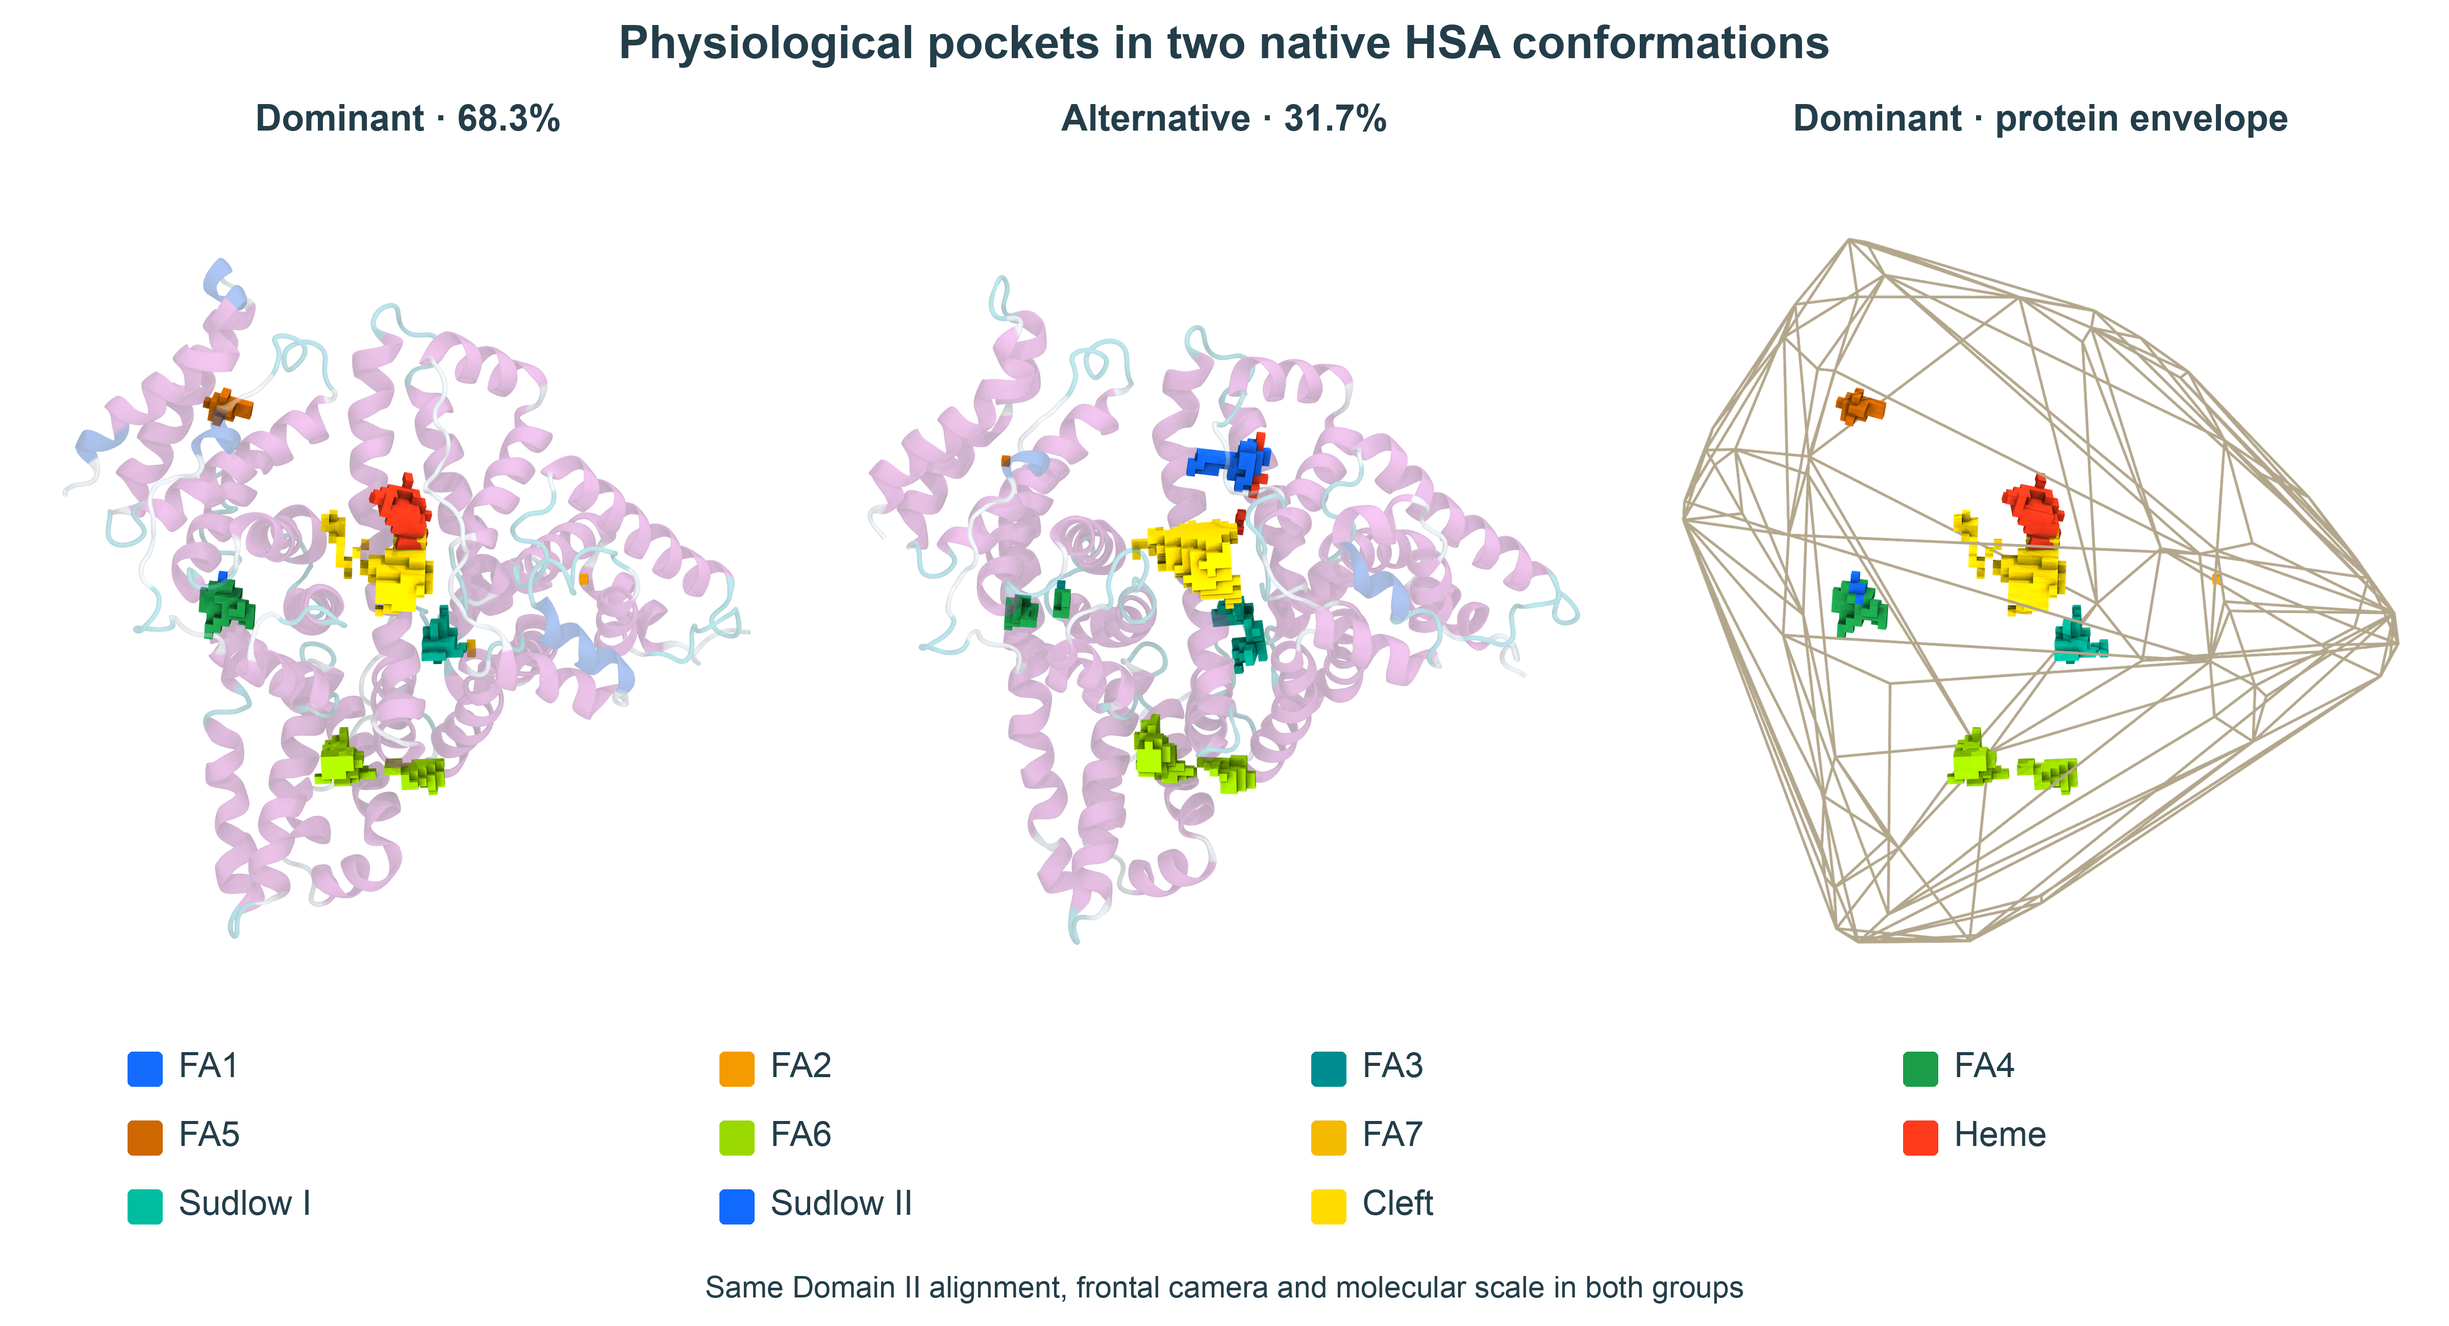
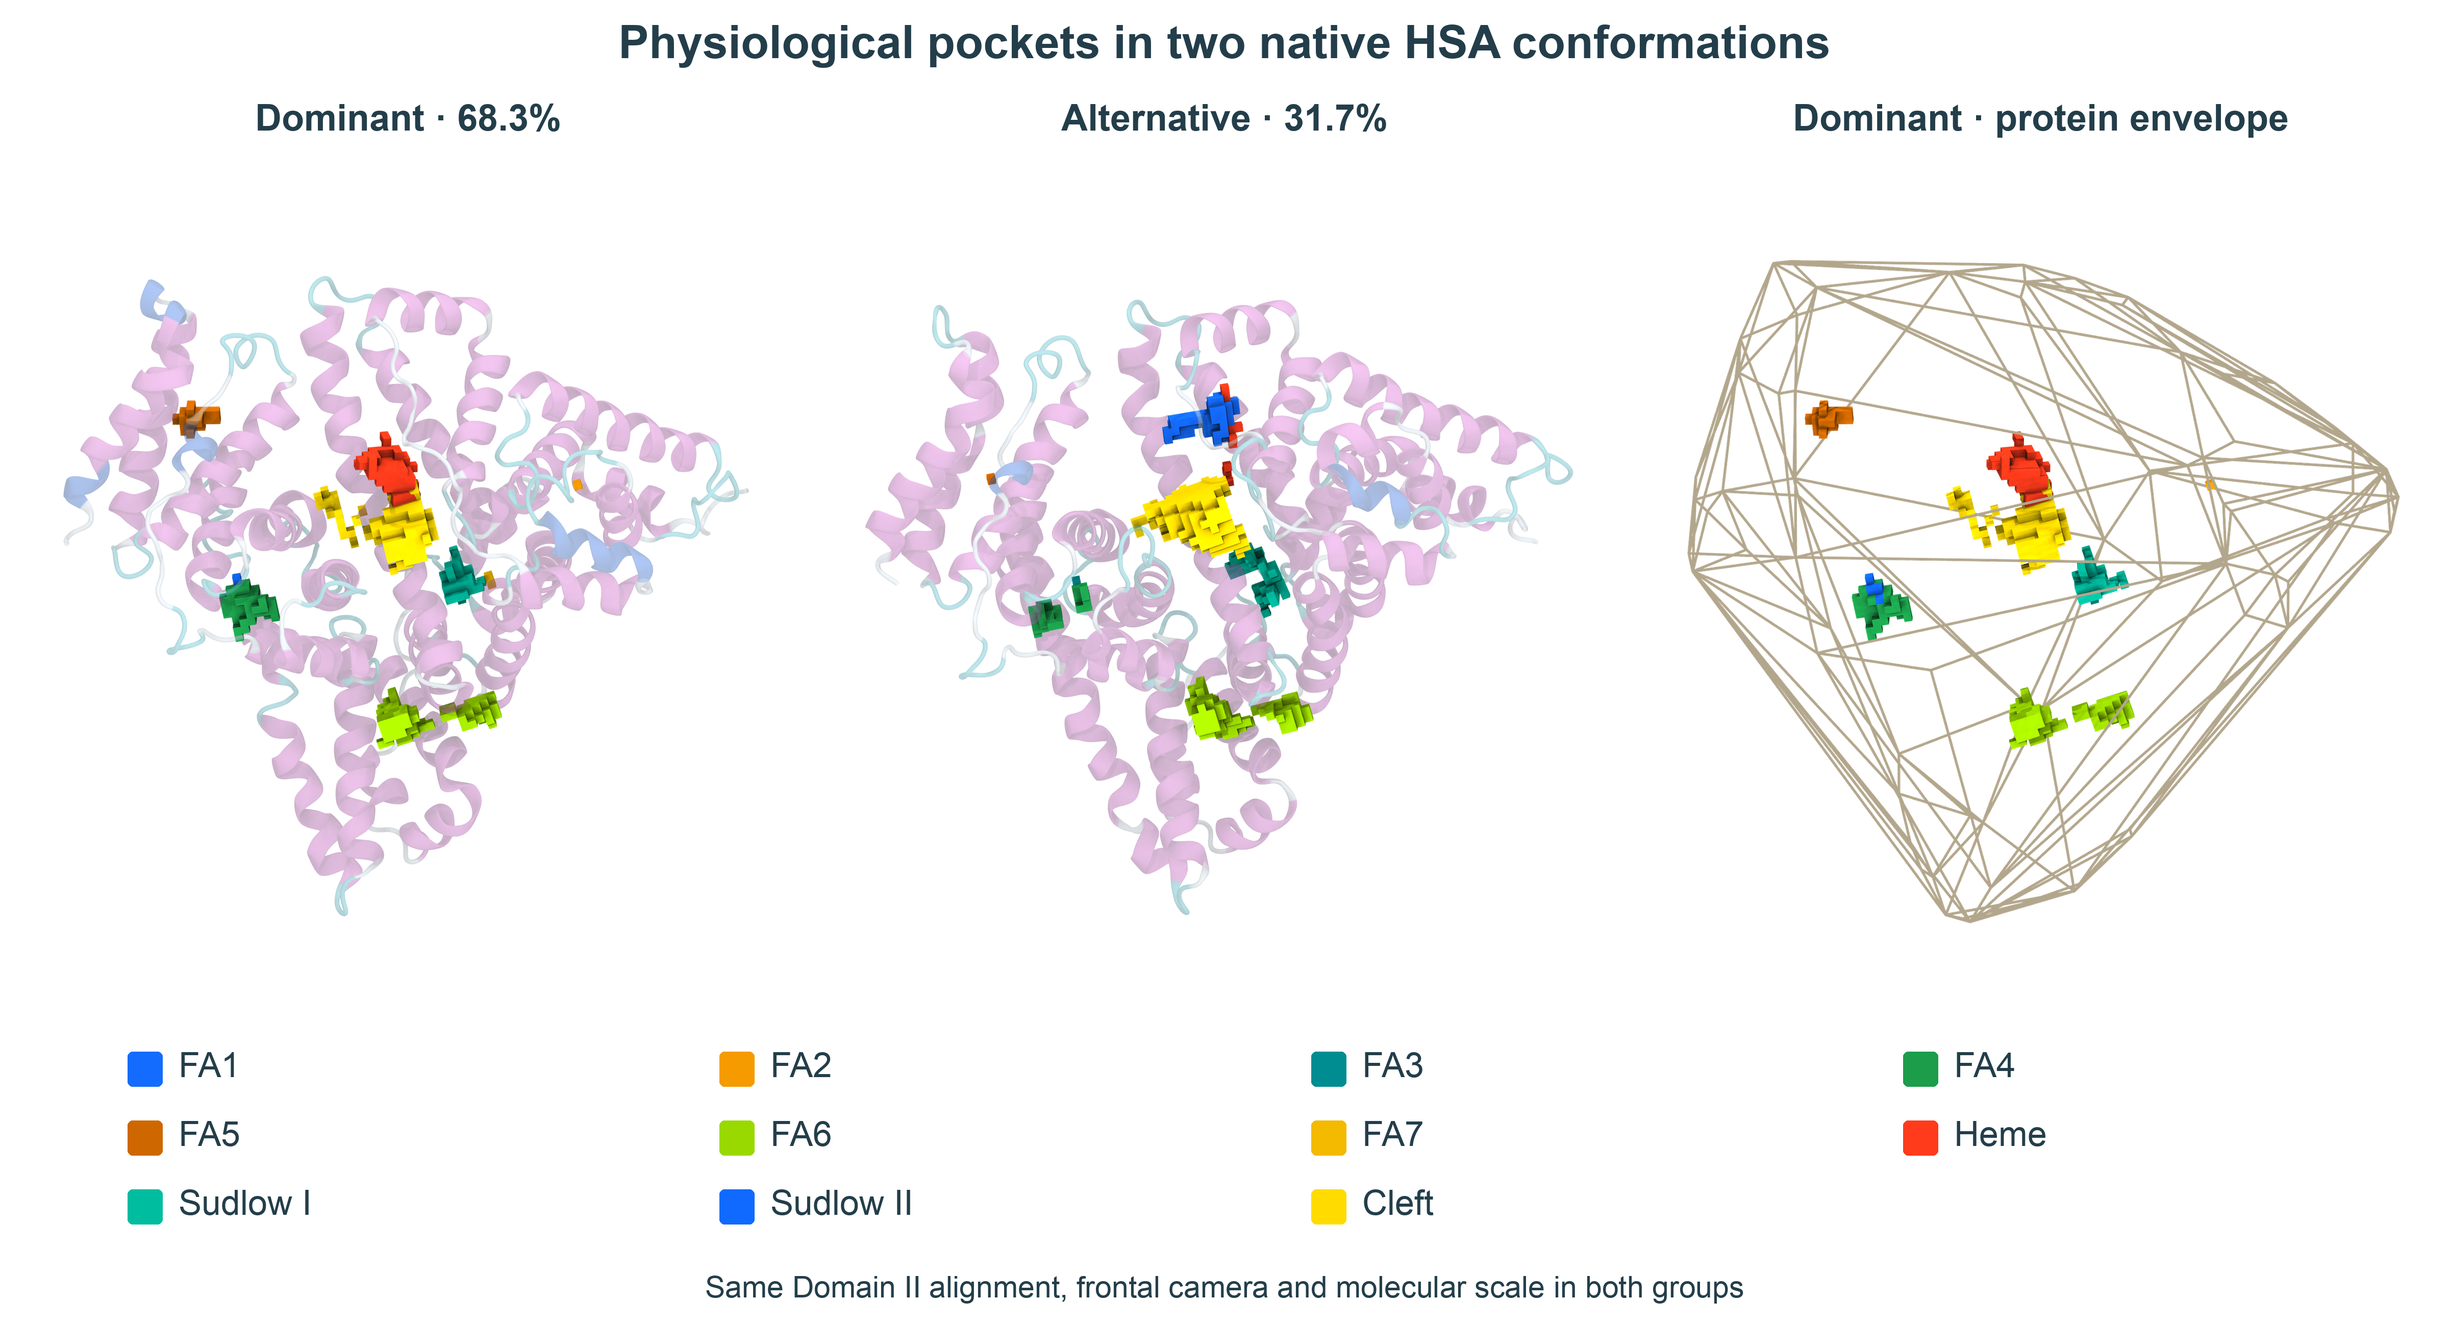
Clarify pocket previews

Changed region(s): [[0.6875, 0.1869, 1.0, 0.7165], [0.3438, 0.2181, 0.6562, 0.7165], [0.0312, 0.1869, 0.3125, 0.6854]]

diff --git a/README.md b/README.md
@@ -15,7 +15,9 @@ Their relative positions, the shape of the protein and the surrounding residues
 therefore belong to one coherent structure.
 
 Use this model to study the intact protein, locate several binding regions at
-once, or design a material around the complete HSA molecule.
+once, or design a material around the complete HSA molecule. The files are in
+[`whole_protein/`](structures/representative/whole_protein); the alternative
+conformation is in [`whole_protein_group_2/`](structures/representative/whole_protein_group_2).
 
 ### Pocket-shape representatives
 
@@ -28,6 +30,7 @@ Use these models to examine a particular cavity and its lining residues.
 Different pockets can come from different frames. Each model includes its own
 complete parent protein and geometric envelope. The selected structures are
 observed conformations; the trajectory averages are reported separately below.
+The files are in [`pocket_geometry/`](structures/representative/pocket_geometry).
 
 ### Which should be used for MOF design?
 
@@ -61,20 +64,21 @@ pocket probe spaces. Each pocket was recalculated on its own group representativ
 The separate wireframe shows the complete protein convex hull of group 1. A convex hull bridges surface indentations;
 it is a coarse geometric envelope. The atomic PDB retains atomic detail and chemical identities.
 
-[Group 1 protein PDB](structures/representative/whole_protein/protein.pdb) ·
-[Group 2 protein PDB](structures/representative/whole_protein_group_2/protein.pdb) ·
-[Group 2 protein and pockets](structures/representative/whole_protein_group_2/HSA_with_all_pockets.pdb) ·
-[Protein with all probes, PDB](structures/representative/whole_protein/HSA_with_all_pockets.pdb) ·
-[Protein hull with all probes, PDB](structures/representative/whole_protein/HSA_hull_with_all_pockets.pdb) ·
-[OBJ](structures/representative/whole_protein/HSA_hull_with_all_pockets.obj) ·
-[SDF](structures/representative/whole_protein/HSA_hull_with_all_pockets.sdf) ·
-[Complete group 2 models](structures/representative/whole_protein_group_2)
+- [Group 1 protein PDB](structures/representative/whole_protein/protein.pdb)
+- [Group 2 protein PDB](structures/representative/whole_protein_group_2/protein.pdb)
+- [Group 2 protein and pockets](structures/representative/whole_protein_group_2/HSA_with_all_pockets.pdb)
+- [Protein with all probes, PDB](structures/representative/whole_protein/HSA_with_all_pockets.pdb)
+- [Protein hull with all probes, PDB](structures/representative/whole_protein/HSA_hull_with_all_pockets.pdb)
+- [Protein hull with all probes, OBJ](structures/representative/whole_protein/HSA_hull_with_all_pockets.obj)
+- [Protein hull with all probes, SDF](structures/representative/whole_protein/HSA_hull_with_all_pockets.sdf)
+- [Complete group 2 models](structures/representative/whole_protein_group_2)
 
 ## Pocket volumes
 
 The MD column is the mean ± SD of the three replica means. The other columns
-give the probe-space volume in each selected structure; click a value to open
-its model folder. Groups 1 and 2 are the common protein conformations above;
+give probe-space volumes from `whole_protein/`, `whole_protein_group_2/` and
+`pocket_geometry/`, respectively. Click a value to open the corresponding
+site directory. Groups 1 and 2 are the common protein conformations above;
 pocket-shape frames are selected independently for each cavity. All volumes
 are in Å³.
 
@@ -103,16 +107,26 @@ FA7 overlaps Sudlow I, and FA3/FA4 overlap Sudlow II.
 
 ## See the different representations
 
-Each gallery separates four views: **atomic pocket residues**, the **probe
-surface**, **residues with the probe**, and the **residue convex hull** as a
-wireframe. The probe surface is the mesh stored in OBJ/PLY. Its stepped boundary
-retains the 1 Å calculation grid. The convex hull encloses lining atoms and has
-a different shape from the cavity itself.
+The schematic example introduces four views: **atomic pocket residues**,
+**probe surface**, **residues with the probe**, and **residue convex hull**.
+Green shows the internal probe space; the amber wireframe encloses the lining
+atoms.
 
-The upper row uses the whole-protein frame; the lower row uses the independently
-selected pocket-shape frame. All eight panels for a given pocket share the same
-scale and local alignment. The complete protein envelope is shown above and is
-also included in the combined PDB files.
+<picture>
+  <source media="(prefers-color-scheme: dark)" srcset="images/representations_overview_dark.svg">
+  <img src="images/representations_overview.svg" width="100%" alt="Schematic pocket example showing atomic residues, probe space, their overlay and the residue convex hull">
+</picture>
+
+### HSA pocket results
+
+Expand a pocket below to see its measured structures. The upper row comes
+from `whole_protein/`; the lower row comes from `pocket_geometry/`. All eight
+panels for each pocket share the same local alignment and molecular scale.
+The probe mesh stored in `probe.obj` and `probe.ply` retains the 1 Å grid used
+for the calculation. The lining-atom envelope is stored in `lining_hull.*`.
+
+<details>
+<summary>Heme — view all representations</summary>
 
 ### Heme
 
@@ -121,8 +135,13 @@ also included in the combined PDB files.
   <img src="images/Heme_representatives.png" width="100%" alt="Heme: atomic residues, probe mesh, residues with probe and convex hull, compared between the two frame selections">
 </picture>
 
-[Whole-protein-frame files](structures/representative/whole_protein/Heme) ·
-[Pocket-shape files](structures/representative/pocket_geometry/Heme)
+[`whole_protein/Heme/`](structures/representative/whole_protein/Heme) ·
+[`pocket_geometry/Heme/`](structures/representative/pocket_geometry/Heme)
+
+</details>
+
+<details>
+<summary>FA6 — view all representations</summary>
 
 ### FA6
 
@@ -131,8 +150,13 @@ also included in the combined PDB files.
   <img src="images/FA6_representatives.png" width="100%" alt="FA6: atomic residues, probe mesh, residues with probe and convex hull, compared between the two frame selections">
 </picture>
 
-[Whole-protein-frame files](structures/representative/whole_protein/FA6) ·
-[Pocket-shape files](structures/representative/pocket_geometry/FA6)
+[`whole_protein/FA6/`](structures/representative/whole_protein/FA6) ·
+[`pocket_geometry/FA6/`](structures/representative/pocket_geometry/FA6)
+
+</details>
+
+<details>
+<summary>Sudlow I — view all representations</summary>
 
 ### Sudlow I
 
@@ -141,8 +165,10 @@ also included in the combined PDB files.
   <img src="images/Sudlow_I_representatives.png" width="100%" alt="Sudlow I: atomic residues, probe mesh, residues with probe and convex hull, compared between the two frame selections">
 </picture>
 
-[Whole-protein-frame files](structures/representative/whole_protein/Sudlow_I) ·
-[Pocket-shape files](structures/representative/pocket_geometry/Sudlow_I)
+[`whole_protein/Sudlow_I/`](structures/representative/whole_protein/Sudlow_I) ·
+[`pocket_geometry/Sudlow_I/`](structures/representative/pocket_geometry/Sudlow_I)
+
+</details>
 
 <details>
 <summary>Sudlow II — view all representations</summary>
@@ -154,8 +180,8 @@ also included in the combined PDB files.
   <img src="images/Sudlow_II_representatives.png" width="100%" alt="Sudlow II: atomic residues, probe mesh, residues with probe and convex hull, compared between the two frame selections">
 </picture>
 
-[Whole-protein-frame files](structures/representative/whole_protein/Sudlow_II) ·
-[Pocket-shape files](structures/representative/pocket_geometry/Sudlow_II)
+[`whole_protein/Sudlow_II/`](structures/representative/whole_protein/Sudlow_II) ·
+[`pocket_geometry/Sudlow_II/`](structures/representative/pocket_geometry/Sudlow_II)
 
 </details>
 
@@ -169,8 +195,8 @@ also included in the combined PDB files.
   <img src="images/FA1_representatives.png" width="100%" alt="FA1: atomic residues, probe mesh, residues with probe and convex hull, compared between the two frame selections">
 </picture>
 
-[Whole-protein-frame files](structures/representative/whole_protein/FA1) ·
-[Pocket-shape files](structures/representative/pocket_geometry/FA1)
+[`whole_protein/FA1/`](structures/representative/whole_protein/FA1) ·
+[`pocket_geometry/FA1/`](structures/representative/pocket_geometry/FA1)
 
 </details>
 
@@ -184,8 +210,8 @@ also included in the combined PDB files.
   <img src="images/FA2_representatives.png" width="100%" alt="FA2: atomic residues, probe mesh, residues with probe and convex hull, compared between the two frame selections">
 </picture>
 
-[Whole-protein-frame files](structures/representative/whole_protein/FA2) ·
-[Pocket-shape files](structures/representative/pocket_geometry/FA2)
+[`whole_protein/FA2/`](structures/representative/whole_protein/FA2) ·
+[`pocket_geometry/FA2/`](structures/representative/pocket_geometry/FA2)
 
 </details>
 
@@ -199,8 +225,8 @@ also included in the combined PDB files.
   <img src="images/FA3_representatives.png" width="100%" alt="FA3: atomic residues, probe mesh, residues with probe and convex hull, compared between the two frame selections">
 </picture>
 
-[Whole-protein-frame files](structures/representative/whole_protein/FA3) ·
-[Pocket-shape files](structures/representative/pocket_geometry/FA3)
+[`whole_protein/FA3/`](structures/representative/whole_protein/FA3) ·
+[`pocket_geometry/FA3/`](structures/representative/pocket_geometry/FA3)
 
 </details>
 
@@ -214,8 +240,8 @@ also included in the combined PDB files.
   <img src="images/FA4_representatives.png" width="100%" alt="FA4: atomic residues, probe mesh, residues with probe and convex hull, compared between the two frame selections">
 </picture>
 
-[Whole-protein-frame files](structures/representative/whole_protein/FA4) ·
-[Pocket-shape files](structures/representative/pocket_geometry/FA4)
+[`whole_protein/FA4/`](structures/representative/whole_protein/FA4) ·
+[`pocket_geometry/FA4/`](structures/representative/pocket_geometry/FA4)
 
 </details>
 
@@ -229,8 +255,8 @@ also included in the combined PDB files.
   <img src="images/FA5_representatives.png" width="100%" alt="FA5: atomic residues, probe mesh, residues with probe and convex hull, compared between the two frame selections">
 </picture>
 
-[Whole-protein-frame files](structures/representative/whole_protein/FA5) ·
-[Pocket-shape files](structures/representative/pocket_geometry/FA5)
+[`whole_protein/FA5/`](structures/representative/whole_protein/FA5) ·
+[`pocket_geometry/FA5/`](structures/representative/pocket_geometry/FA5)
 
 </details>
 
@@ -244,8 +270,8 @@ also included in the combined PDB files.
   <img src="images/FA7_representatives.png" width="100%" alt="FA7: atomic residues, probe mesh, residues with probe and convex hull, compared between the two frame selections">
 </picture>
 
-[Whole-protein-frame files](structures/representative/whole_protein/FA7) ·
-[Pocket-shape files](structures/representative/pocket_geometry/FA7)
+[`whole_protein/FA7/`](structures/representative/whole_protein/FA7) ·
+[`pocket_geometry/FA7/`](structures/representative/pocket_geometry/FA7)
 
 </details>
 
@@ -259,8 +285,8 @@ also included in the combined PDB files.
   <img src="images/Cleft_representatives.png" width="100%" alt="Cleft: atomic residues, probe mesh, residues with probe and convex hull, compared between the two frame selections">
 </picture>
 
-[Whole-protein-frame files](structures/representative/whole_protein/Cleft) ·
-[Pocket-shape files](structures/representative/pocket_geometry/Cleft)
+[`whole_protein/Cleft/`](structures/representative/whole_protein/Cleft) ·
+[`pocket_geometry/Cleft/`](structures/representative/pocket_geometry/Cleft)
 
 </details>
 
@@ -279,7 +305,11 @@ tables/                     Volumes, source frames and methods
 images/                     Transparent previews
 ```
 
-Every pocket folder contains the following models. Coordinates are in Å.
+Pocket models are stored under `structures/representative/` in
+`whole_protein/<site>/`, `whole_protein_group_2/<site>/` and
+`pocket_geometry/<site>/`. For example, the pocket-shape files for FA1 are in
+[`pocket_geometry/FA1/`](structures/representative/pocket_geometry/FA1).
+These directories contain the models listed below. Coordinates are in Å.
 
 | File | Contents |
 |---|---|
@@ -289,10 +319,11 @@ Every pocket folder contains the following models. Coordinates are in Å.
 | `lining_hull.pdb`, `.obj`, `.ply` | Convex envelope of the lining-residue heavy atoms |
 | `pocket_with_geometry.pdb` | Pocket atoms, probe model and complete protein hull |
 | `protein_with_pocket.pdb` | Complete protein, that pocket's probe and protein hull |
-| `protein.pdb`, `protein_hull.*` | Complete parent protein and its enclosing hull; in the parent directory for the whole-protein collection |
+| `protein.pdb`, `protein_hull.*` | Complete parent protein and its hull; inside `pocket_geometry/<site>/`, or in the parent `whole_protein/` and `whole_protein_group_2/` directories |
 
-Every OBJ also has **SDF, MOL and MOL2** exports. Their vertices and edges describe
-geometry. They use virtual atoms (`*` or `Du`); chemical atoms remain in the atomic
+`probe.obj`, `lining_hull.obj` and `protein_hull.obj` also have matching
+**SDF, MOL and MOL2** exports. Their vertices and edges describe geometry.
+They use virtual atoms (`*` or `Du`); chemical atoms remain in the atomic
 PDB files. OBJ/PLY retain the triangular surface faces.
 
 The original R1, R2 and R3 models and numerical results are retained. Each replica

diff --git a/tables/README.md b/tables/README.md
@@ -39,8 +39,11 @@ For display, both observed proteins and all associated geometry are fitted
 with the same canonical Domain II Cα atoms (196–383) to the established native
 reference, then shown with one frontal camera and molecular scale. The atom
 coordinates in the delivered structures are unchanged by this display fit.
-The protein hull panel belongs to group 1. The second group's complete hull,
-atomic structures and probe models are supplied in its own structure folder.
+The same camera roll aligns the projected Cα axis of the heart tip,
+subdomain IIB (292–383), with the vertical direction. The protein hull panel
+belongs to group 1. The second group's complete hull, atomic structures and
+probe models are in
+[`structures/representative/whole_protein_group_2/`](../structures/representative/whole_protein_group_2).
 
 ### Independent pocket-shape frames
 
@@ -132,3 +135,6 @@ in the atomic PDB files.
 
 Source: `CATIONIZED_HSA/series_585_apbs`, native system 0%. Original trajectories,
 probe masks, analysis code and calculation records remain on the cluster.
+
+Preview camera settings, source hashes and the schematic overview are recorded
+in [images/FIGURE_SOURCES.json](../images/FIGURE_SOURCES.json).
